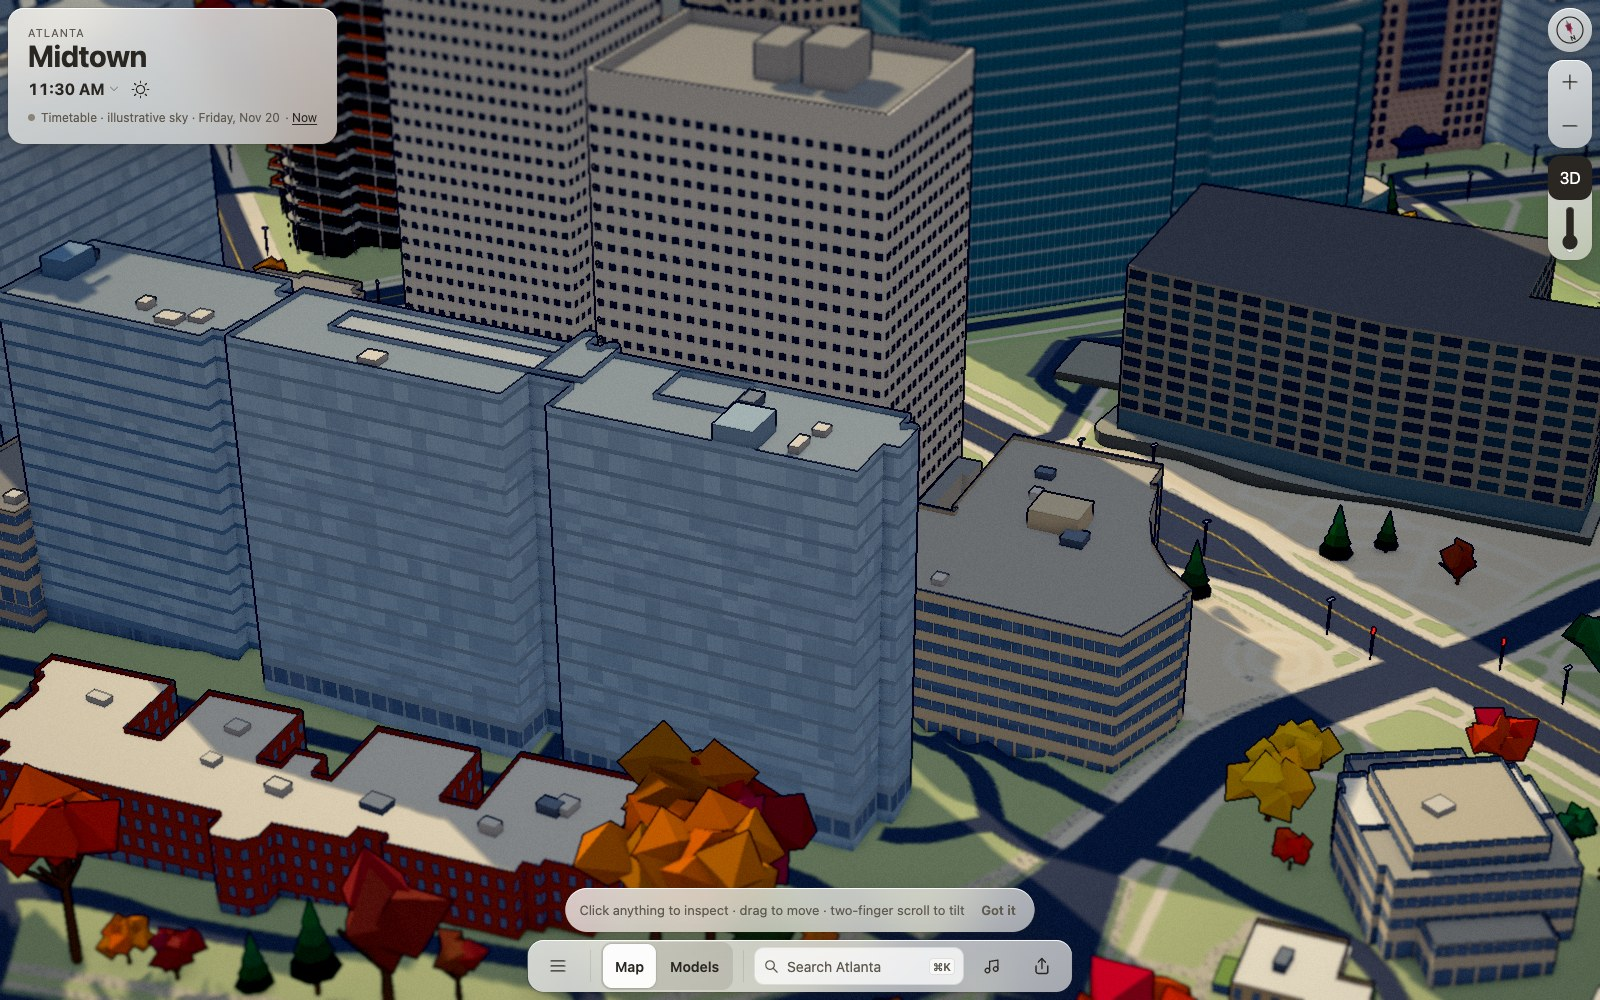
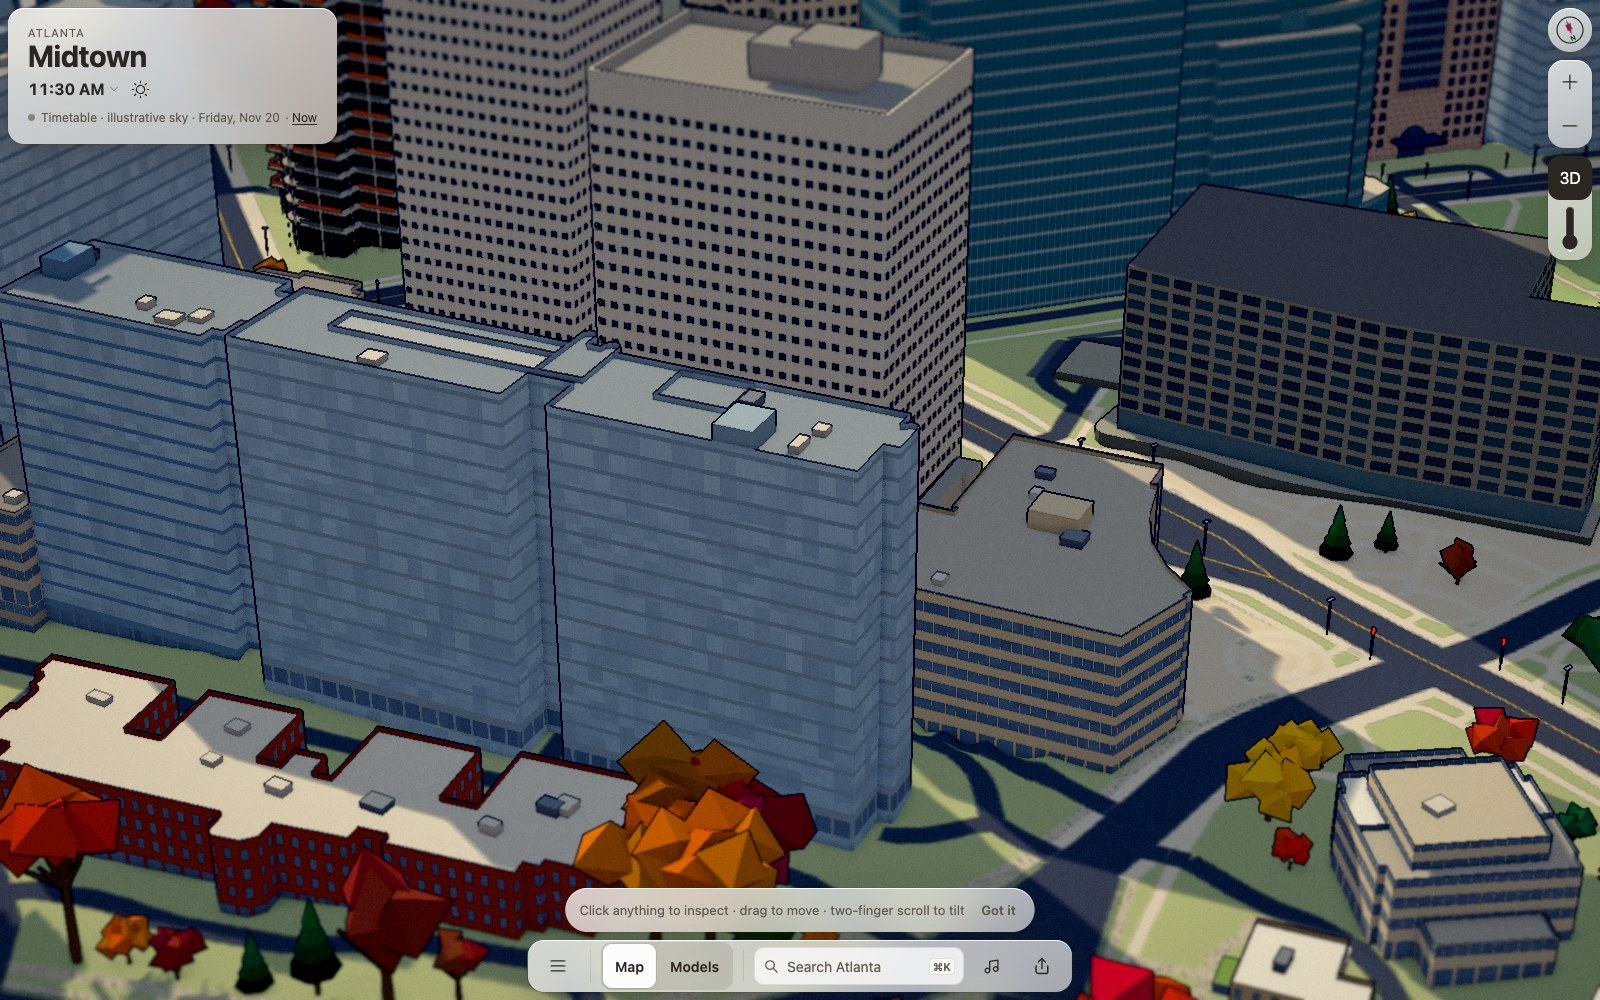
Step 400 Colony Square's core in one piece, keep base glazing off the tower slot, scope the podium height to 400

Changed region(s): [[0.5312, 0.124, 0.625, 0.465], [0.4688, 0.031, 0.5625, 0.124]]

diff --git a/web/src/city/colony-square.ts b/web/src/city/colony-square.ts
@@ -75,7 +75,7 @@ function punchedShaft(s: Shell, half: [number, number], lo: number, floors: numb
 type Tower = {
   id: string; name: string; origin: P2; probes: P2[];
   half: [number, number]; lobby: number; floors: number; pitch: number; roof: number;
-  parapet?: number; cores: { at: P2; size: [number, number]; top: number }[]; seed: number;
+  parapet?: number; podium?: number; cores: { at: P2; size: [number, number]; top: number }[]; seed: number;
 };
 
 // Heights above the 2018 lidar ground (296.1 m NAVD88). Frames are centred on
@@ -88,8 +88,8 @@ const TOWERS: Record<string, Tower> = {
   },
   [colony400Id]: {
     id: colony400Id, name: '400 Colony Square', origin: [796.77, -3752.77], probes: [[0, 0], [-12, -20], [12, 20]],
-    half: [19, 27.9], lobby: 7.8, floors: 20, pitch: 3.6, roof: 83.3, parapet: 86,
-    cores: [{ at: [-0.5, -10], size: [11, 8], top: 91.2 }, { at: [-0.5, 0], size: [11, 6], top: 89.9 }], seed: 400,
+    half: [19, 27.75], lobby: 7.8, floors: 20, pitch: 3.6, roof: 83.3, parapet: 86, podium: 7.8,
+    cores: [{ at: [-0.5, -10], size: [11, 12], top: 91.2 }, { at: [-0.5, 0], size: [11, 8], top: 89.9 }], seed: 400,
   },
 };
 
@@ -115,10 +115,10 @@ function createColonyTower(buildings: VBuilding[], grid: GroundGrid, tower: Towe
     const c = Math.SQRT1_2, dx = x - tower.origin[0], dz = z - tower.origin[1];
     return [dx * c - dz * c, dx * c + dz * c];
   };
-  // The generated residual 'podium' part carries the tower's height in the data,
-  // but the lidar is low there: draw it as a base at the adjoining 7.8 m.
-  const lows = (site.parts ?? []).filter(p => p.rings.length === 1 && (p.id === 'podium' || (p.h && p.h <= 20)))
-    .map(p => p.id === 'podium' ? { ...p, h: 7.8 } : p);
+  // A generated residual 'podium' part carries the tower's height in the data;
+  // where the lidar shows it low, the tower config gives its base height.
+  const lows = (site.parts ?? []).filter(p => p.rings.length === 1 && (p.id === 'podium' ? tower.podium : p.h && p.h <= 20))
+    .map(p => p.id === 'podium' ? { ...p, h: tower.podium } : p);
   const others = lows.map(p => p.rings[0].map(toLocal));
   for (const [n, part] of lows.entries()) {
     const plan = others[n];
@@ -135,7 +135,8 @@ function createColonyTower(buildings: VBuilding[], grid: GroundGrid, tower: Towe
       if (len < 4) return;
       const sign = area > 0 ? -1 : 1, nx = sign * (b[1] - a[1]) / len, nz = -sign * (b[0] - a[0]) / len;
       const probe: P2 = [(a[0] + b[0]) / 2 + nx * 0.6, (a[1] + b[1]) / 2 + nz * 0.6];
-      if (Math.abs(probe[0]) < half[0] && Math.abs(probe[1]) < half[1]) return;
+      // A small tolerance also skips walls across the sub-metre slot to the tower.
+      if (Math.abs(probe[0]) < half[0] + 0.8 && Math.abs(probe[1]) < half[1] + 0.8) return;
       if (others.some(r => r !== plan && pointInRing(probe[0], probe[1], r))) return;
       const at = (t: number, y: number) => [a[0] + t * (b[0] - a[0]) + nx * 0.04, y, a[1] + t * (b[1] - a[1]) + nz * 0.04];
       const hi = Math.min(top - 1.2, floor + 4.6);

diff --git a/web/src/city/colony-square.test.ts b/web/src/city/colony-square.test.ts
@@ -50,4 +50,8 @@ it('replaces 400 Colony Square with its 83.3 m roof, parapet ring and stepped co
   expect(h(-18.8, 0)).toBeCloseTo(86, 0); // parapet ring
   expect(h(0, -10)).toBeCloseTo(91.2, 0); // upper core
   expect(h(0, 0)).toBeCloseTo(89.9, 0); // lower core
+  expect(h(0, -4.5)).toBeCloseTo(91.2, 0); // the core steps down without a gap
+  expect(h(0, -3.5)).toBeCloseTo(89.9, 0);
+  expect(h(-23.5, 6)).toBeCloseTo(7.8, 0); // residual podium part drawn as a low base
+  expect(createColony400([], grid)).toBeNull();
 });

diff --git a/docs/build-log.md b/docs/build-log.md
@@ -3394,4 +3394,4 @@ Amli Arts Center was a generic block filling an L-shaped lot at 15th and Spring.
 On the A16, hiding buildings alone took the default view from 26 to 41 fps, and an inventory of every building draw found why: 333 draws for 992k triangles, with 138 of them lit-window and lamp meshes averaging 450 triangles each. Merging them is awkward because every landmark lights its windows in its own colour and strength, so a plain merge per 500 m cell left 65 meshes alone. The fix was to notice that by day all those lamps look exactly like their walls. The batcher now probes each landmark's own night switch at night 1, 0.5 and 0, bakes constant material colours into the vertex colours, and lays each cell's meshes into one buffer sorted by look. By day the whole cell draws as one range; at night the same buffer is drawn as one range per distinct look, so nothing is stored twice. Far house tiles got the same treatment in 3×3 blocks. At the default view, low-tier calls fell from 558 to 414 and high from 605 to 462, with the same triangles, programs and heap. The surprise was the heap: the first version cost 49 MB, because the `sync()` closure kept the batcher's bookkeeping map alive, and that map held every original geometry. [Default view, high, before and after](log/perf-buildings/01-default-day-high.jpg) · [Four Seasons and 1100 Peachtree at night](log/perf-buildings/03-four-seasons-1100-night.jpg)
 
 
-**2026-11-24 — 400 Colony Square, read from a height map.** For the second tower I sampled the lidar on a 2 m grid in the street frame and printed the median height of each cell. The roof became readable: an 83.3 m rectangle, 38 by 55.5 m, edged on two sides by an 86–89 m parapet, with a two-step core at 89.9 and 91.2 m in the middle. The "podium" heights that worried the survey were the parapet and the tower's own edge. Both Colony Square towers now come from one module that takes a frame, a plan, floors and a list of cores. 400 adds 685 triangles. [Captures and evidence](log/ui/400-colony-square/README.md)
+**2026-11-24 — 400 Colony Square, read from a height map.** For the second tower I sampled the lidar on a 2 m grid in the street frame and printed the median height of each cell. The roof became readable: an 83.3 m rectangle, 38 by 55.5 m, with an 86–89 m parapet that the lidar catches best on two edges (drawn all round), with a two-step core at 89.9 and 91.2 m in the middle. The "podium" heights that worried the survey were the parapet and the tower's own edge. Both Colony Square towers now come from one module that takes a frame, a plan, floors and a list of cores. 400 adds 685 triangles. [Captures and evidence](log/ui/400-colony-square/README.md)

diff --git a/docs/log/ui/400-colony-square/README.md b/docs/log/ui/400-colony-square/README.md
@@ -7,7 +7,7 @@ The second original Colony Square office tower, at Peachtree and 14th, replaces 
 The registration uses the April 2018 lidar (USGS EPT; ground median 296.1 m NAVD88), sampled on a 2 m grid in the 45° frame.
 
 - The roof is a 38 × 55.5 m rectangle at a uniform 83.3 m. Centred at (796.8, −3752.8), it reaches up to about 1.2 m beyond the mapped shaft part `osm:way:1451518632` on the northeast and southeast faces.
-- The 88–90 m returns that looked like a podium question are two things. One is a parapet ring about 86–89 m, clearest along the southwest and southeast edges. The other is the core: 91.2 m over an 11 × 8 m block and 89.9 m over the 11 × 6 m block south of it, matching core part `osm:way:1414724134`.
+- The 88–90 m returns that looked like a podium question are two things. One is a parapet ring about 86–89 m, clearest along the southwest and southeast edges. The other is the core, which steps down in one piece: 91.2 m over an 11 × 12 m block and 89.9 m over the 11 × 8 m block adjoining it, matching core part `osm:way:1414724134`.
 - The returns up to 88.8 m inside low part `osm:way:1414724136` are spill from the tower's edge, so that part and the other low parts stay at their mapped 7.8 m and 3.9 m. They are drawn as pale bases with street glazing, each on its own ground.
 - The generated residual `podium` part carries 86.2 m in the data, but it sits outside the shaft on the southwest, where the lidar finds no returns above 60 m. It is drawn as a base at the adjoining part's 7.8 m (an estimate).
 
@@ -36,6 +36,7 @@ Everyday office night: about 6% of windows lit warm, from the shared mixed hash 
 | Whole tower, looking north-northeast | `794,-3754,32,60,560` | 11:30 AM EST | [Wide](wide.jpg) |
 | Whole tower | `794,-3754,32,60,560` | 11:30 PM EST | [Wide at night](wide-night.jpg) |
 | Roof, parapet and core, looking south-southwest | `794,-3754,200,62,480` | 11:30 AM EST | [Crown](crown.jpg) |
+| Roof, parapet and core | `794,-3754,200,62,480` | 11:30 PM EST | [Crown at night](crown-night.jpg) |
 | Colony Square cluster, looking east-northeast | `800,-3710,70,50,1021` | 11:30 AM EST | [Cluster](cluster.jpg) |
 | Colony Square cluster | `800,-3710,70,50,1021` | 11:30 PM EST | [Cluster at night](cluster-night.jpg) |
 | South corner and grid (close) | `790,-3790,0,66,130` | 11:30 AM EST | [Corner](corner.jpg) |
